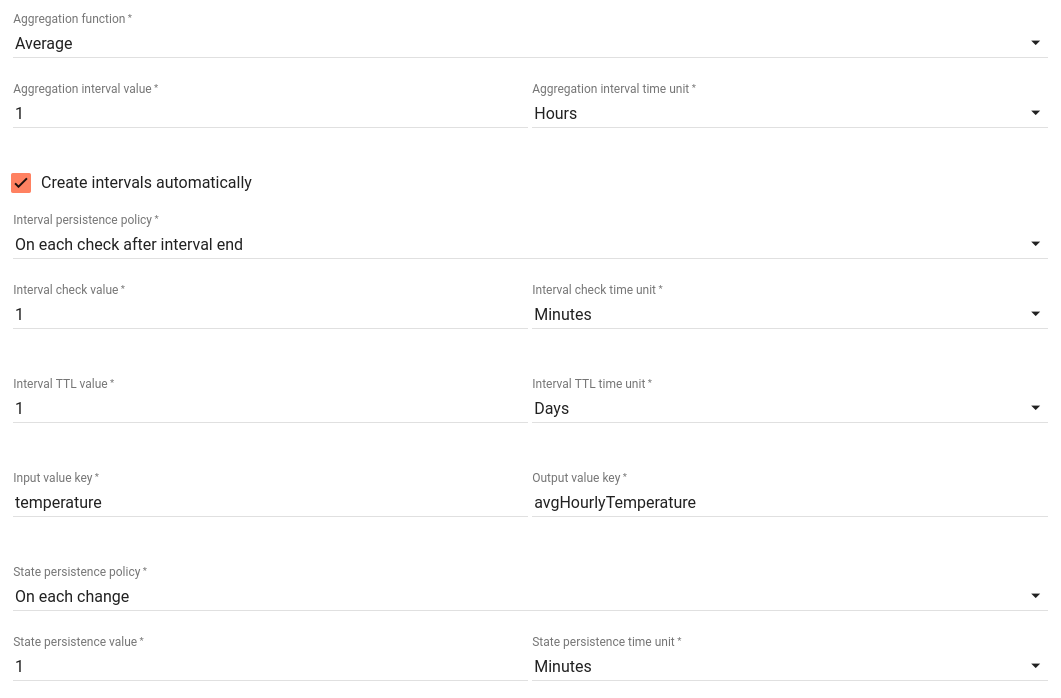
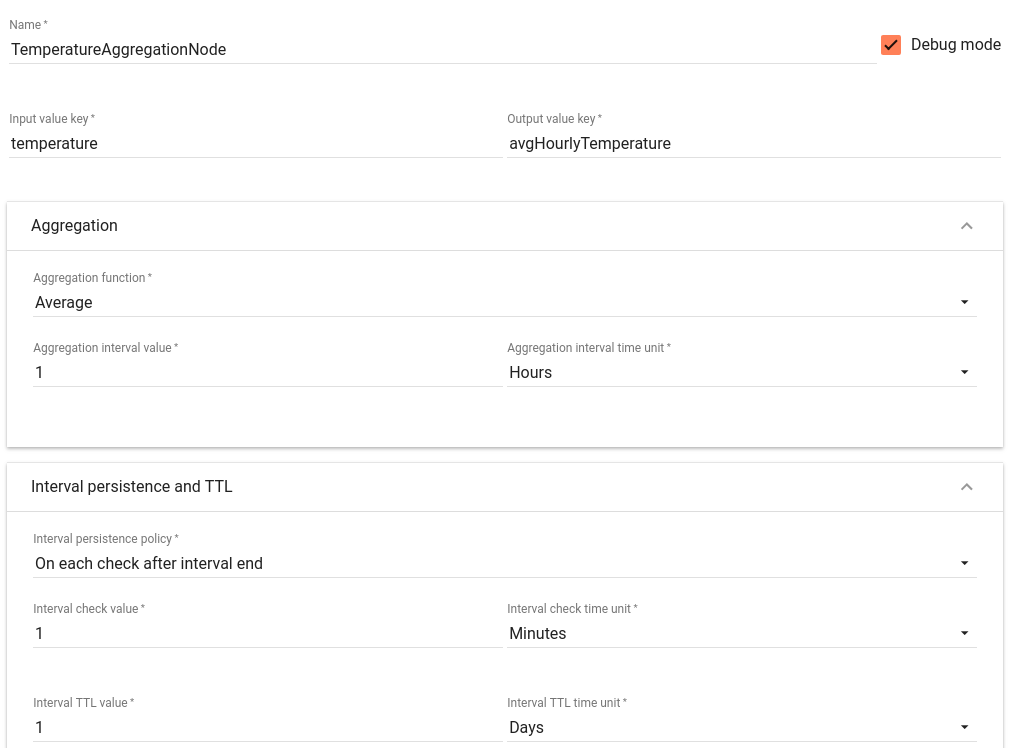
Aggregate Stream documentation

diff --git a/docs/user-guide/rule-engine-2-0/pe/analytics-nodes.md b/docs/user-guide/rule-engine-2-0/pe/analytics-nodes.md
@@ -76,15 +76,28 @@ with failure reason and parent entity as originator. Failure message is forwarde
 
 ![image](/images/user-guide/rule-engine-2-0/pe/nodes/analytics-aggregate-stream.png)
 
-Calculates MIN/MAX/AVG/SUM based on the incoming data.
+Calculates MIN/MAX/SUM/AVG/COUNT/UNIQUE based on the incoming data stream. Groups incoming data stream based on originator id of the message (i.e. particular device, asset, customer) and **aggregation interval value** into **Intervals**.
 
-Configuration:
+
+Intervals are periodically persisted based on **interval persistence policy** and **interval check value**. Intervals are cached in memory based on **Interval TTL value**.
+State of the Intervals are persisted as timeseries entities based on **state persistence policy** and **state persistence value**.
+In case there is no data for certain entity, it might be useful to generate default values for those entities. 
+To lookup those entities one may select **Create intervals automatically** checkbox and configure **Interval entities**.
+
+
+Generates 'POST_TELEMETRY_REQUEST' messages with the results of the aggregation for particular interval.
+
+
+Configuration below will calculate average hourly temperature and will persist it within one minute once the hourly interval is ended. 
+In case some delayed telemetry will arrive for the particular interval, the rule node will lookup it from internal cache or from telemetry values.
 
 ![image](/images/user-guide/rule-engine-2-0/pe/nodes/analytics-aggregate-stream-config.png)
+    
+The results of aggregation will be persisted to the database once per minute. Alternatively you can persist the interval on each new message to avoid any data loss in case of server outage.
+In case devices for some building are not reporting any temperature readings, we can generate default value (zero) for such building on each interval by selecting "Create Intervals automatically" and 
+specifying "Buildings" entity group.    
 
-TBD-2.1
-
-<br/>
+![image](/images/user-guide/rule-engine-2-0/pe/nodes/analytics-aggregate-stream-config-2.png)
 
 # Alarms Count Node
 
